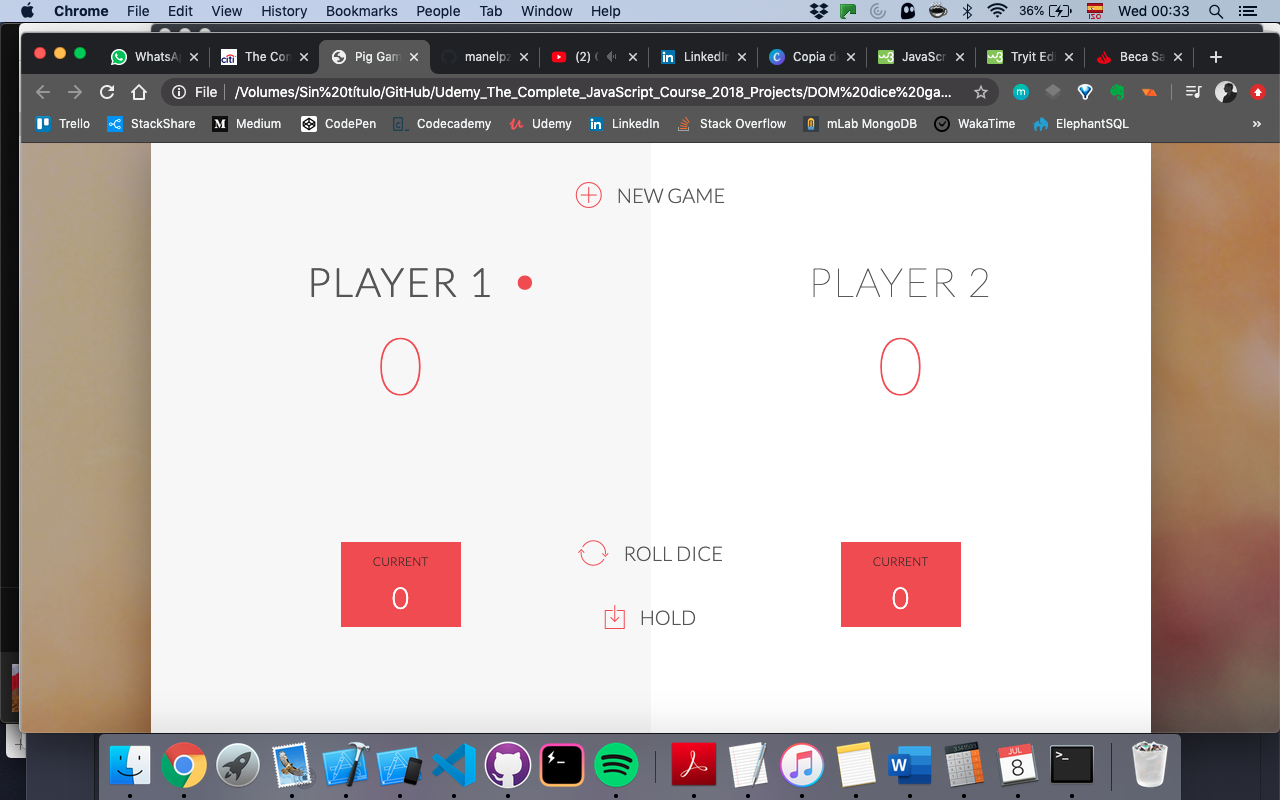
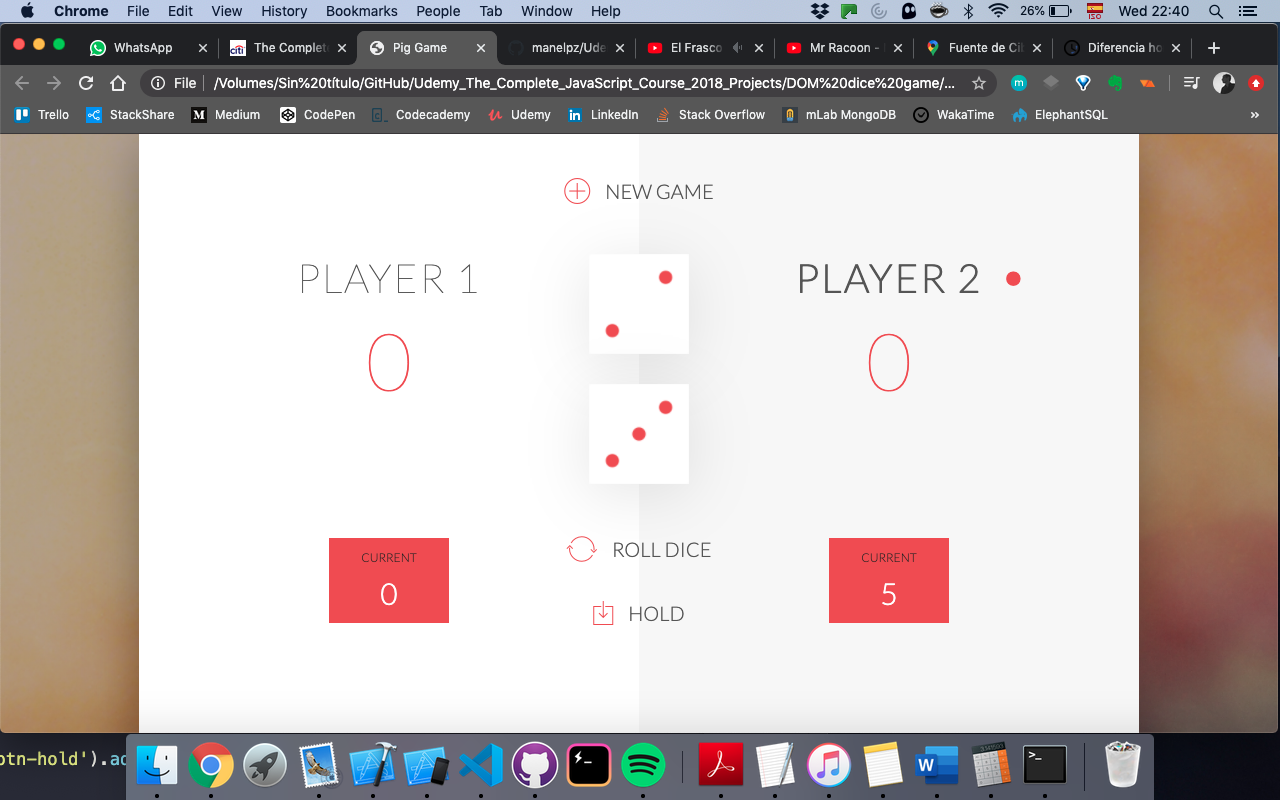
adding two dice

diff --git a/DOM dice game/app.js b/DOM dice game/app.js
@@ -16,18 +16,22 @@ init();
 document.querySelector('.btn-roll').addEventListener('click',function(){
 if (gamePlaying){
     //1. random number
-    var dice = Math.floor(Math.random() * 6) + 1;
-
+    var dice1 = Math.floor(Math.random() * 6) + 1;
+    var dice2 = Math.floor(Math.random() * 6) + 1; 
     //2. Display the result
-    var diceDOM = document.querySelector('.dice');
-    diceDOM.style.display = 'block';
-    diceDOM.src = 'dice-'+dice+'.png';
+    document.getElementById('dice-1').style.display = 'block';
+    document.getElementById('dice-2').style.display = 'block';
+    document.getElementById('dice-1').src = 'dice-' + dice1 + '.png';
+    document.getElementById('dice-2').src = 'dice-' +dice2 +'.png';
+    //var diceDOM = document.querySelector('.dice');
+    //diceDOM.style.display = 'block';
+    //diceDOM.src = 'dice-'+dice+'.png';
 
 
     //3. Update the round score if the rolled number was not a 1
-    if(dice !== 1){
+    if(dice1 !== 1 && dice2 !== 1){
         //add score
-        roundScore += dice;
+        roundScore += dice1+dice2;
         document.querySelector('#current-'+ activePlayer).textContent = roundScore;
     } else{
         //next player
@@ -50,7 +54,8 @@ document.querySelector('.btn-hold').addEventListener('click',function(){
     //check if player won the game
     if(scores[activePlayer] >= 20){
         document.querySelector('#name-'+ activePlayer).textContent='Winner';
-        document.querySelector('.dice').style.display = 'none';
+        document.getElementById('dice-1').style.display = 'none';
+        document.getElementById('dice-2').style.display = 'none';
         document.querySelector('.player-'+ activePlayer+'-panel').classList.add('winner');
         document.querySelector('.player-'+activePlayer+'-panel').classList.remove('active');
        // document.querySelector('.btn-new').style.display = 'block';
@@ -74,7 +79,8 @@ function nextPlayer(){
         document.getElementById('current-1').textContent = '0';
         document.querySelector('.player-0-panel').classList.toggle('active');
         document.querySelector('.player-1-panel').classList.toggle('active');
-        document.querySelector('.dice').style.display = 'none';
+        document.getElementById('dice-1').style.display = 'none';
+        document.getElementById('dice-2').style.display = 'none';
 }
 
 function init(){
@@ -83,7 +89,8 @@ function init(){
     activePlayer = 0;
     gamePlaying = true;
     
-    document.querySelector('.dice').style.display = 'none';
+    document.getElementById('dice-1').style.display = 'none';
+    document.getElementById('dice-2').style.display = 'none';
     
     document.getElementById('current-0').textContent = '0';
     document.getElementById('current-1').textContent = '0';

diff --git a/DOM dice game/index.html b/DOM dice game/index.html
@@ -33,7 +33,8 @@
             <button class="btn-roll"><i class="ion-ios-loop"></i>Roll dice</button>
             <button class="btn-hold"><i class="ion-ios-download-outline"></i>Hold</button>
             
-            <img src="dice-5.png" alt="Dice" class="dice">
+            <img src="dice-5.png" alt="Dice" class="dice" id ="dice-1">
+            <img src="dice-5.png" alt="Dice" class="dice" id="dice-2">
         </div>
         
         <script src="app.js"></script>

diff --git a/DOM dice game/style.css b/DOM dice game/style.css
@@ -2,6 +2,9 @@
 *** GENERAL
 **********************************************/
 
+#dice-1{ top:120px; }
+#dice-2{ top:250px; }
+
 * {
     margin: 0;
     padding: 0;
